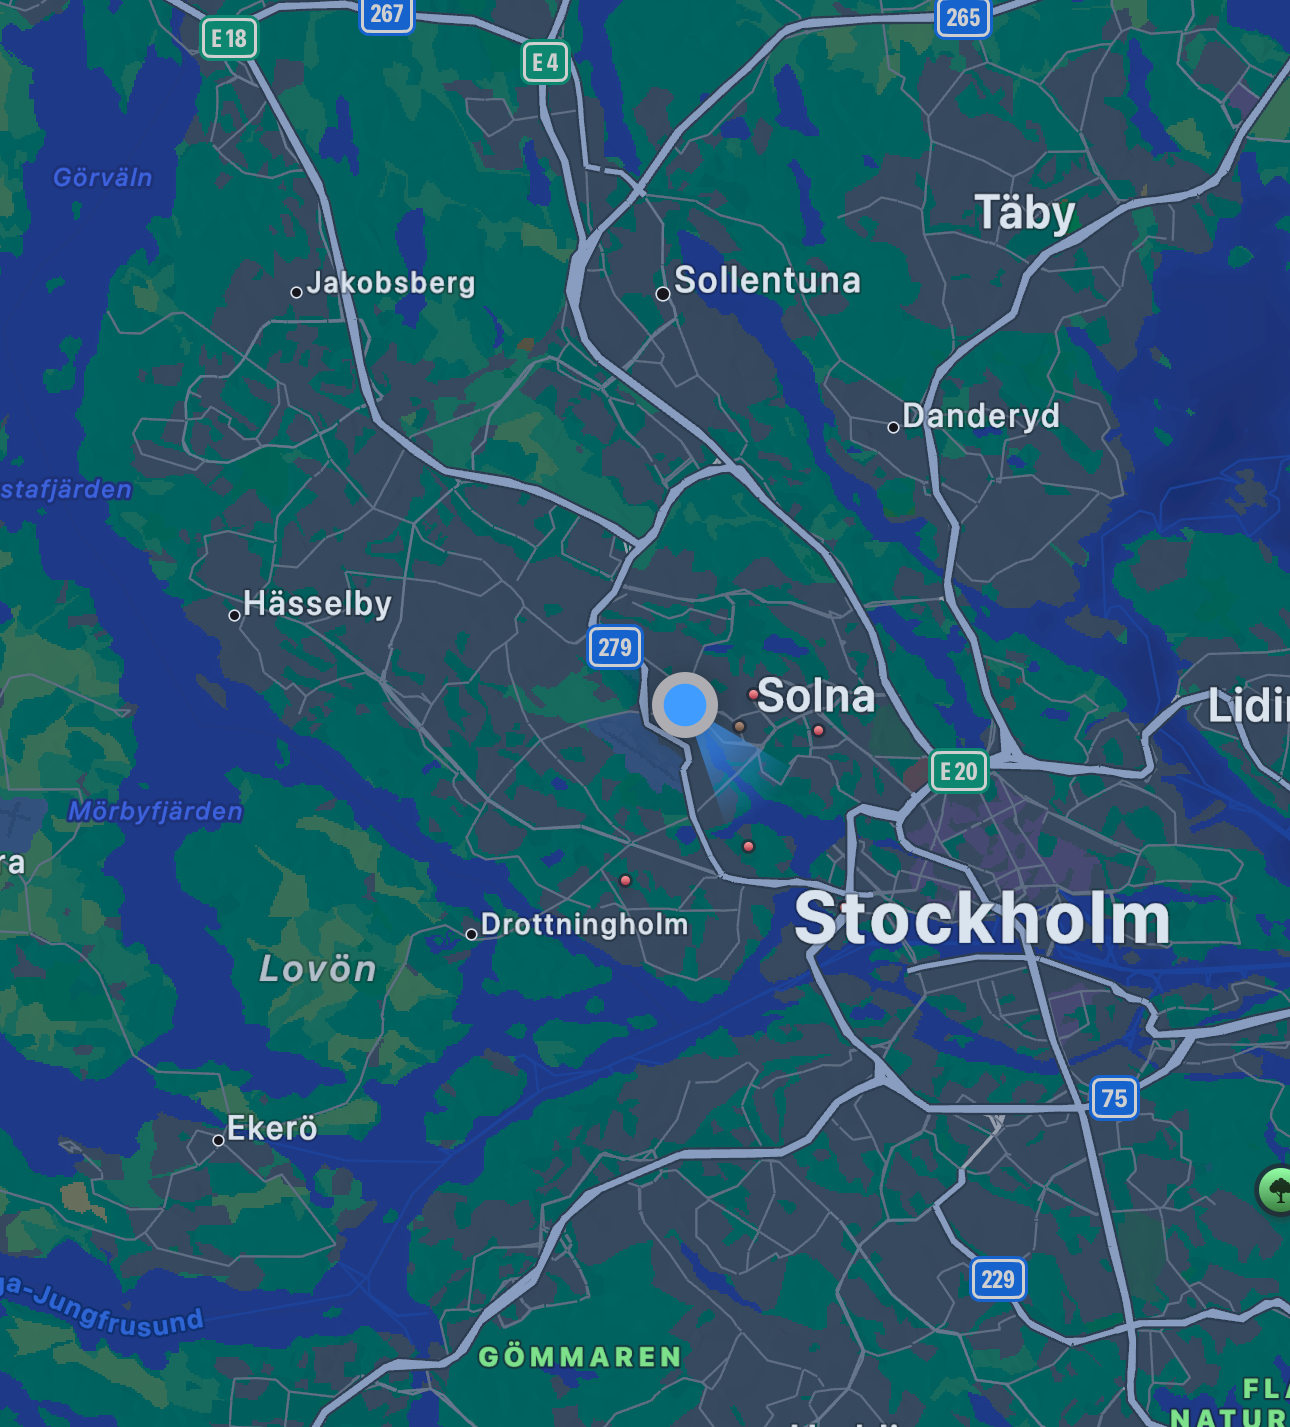
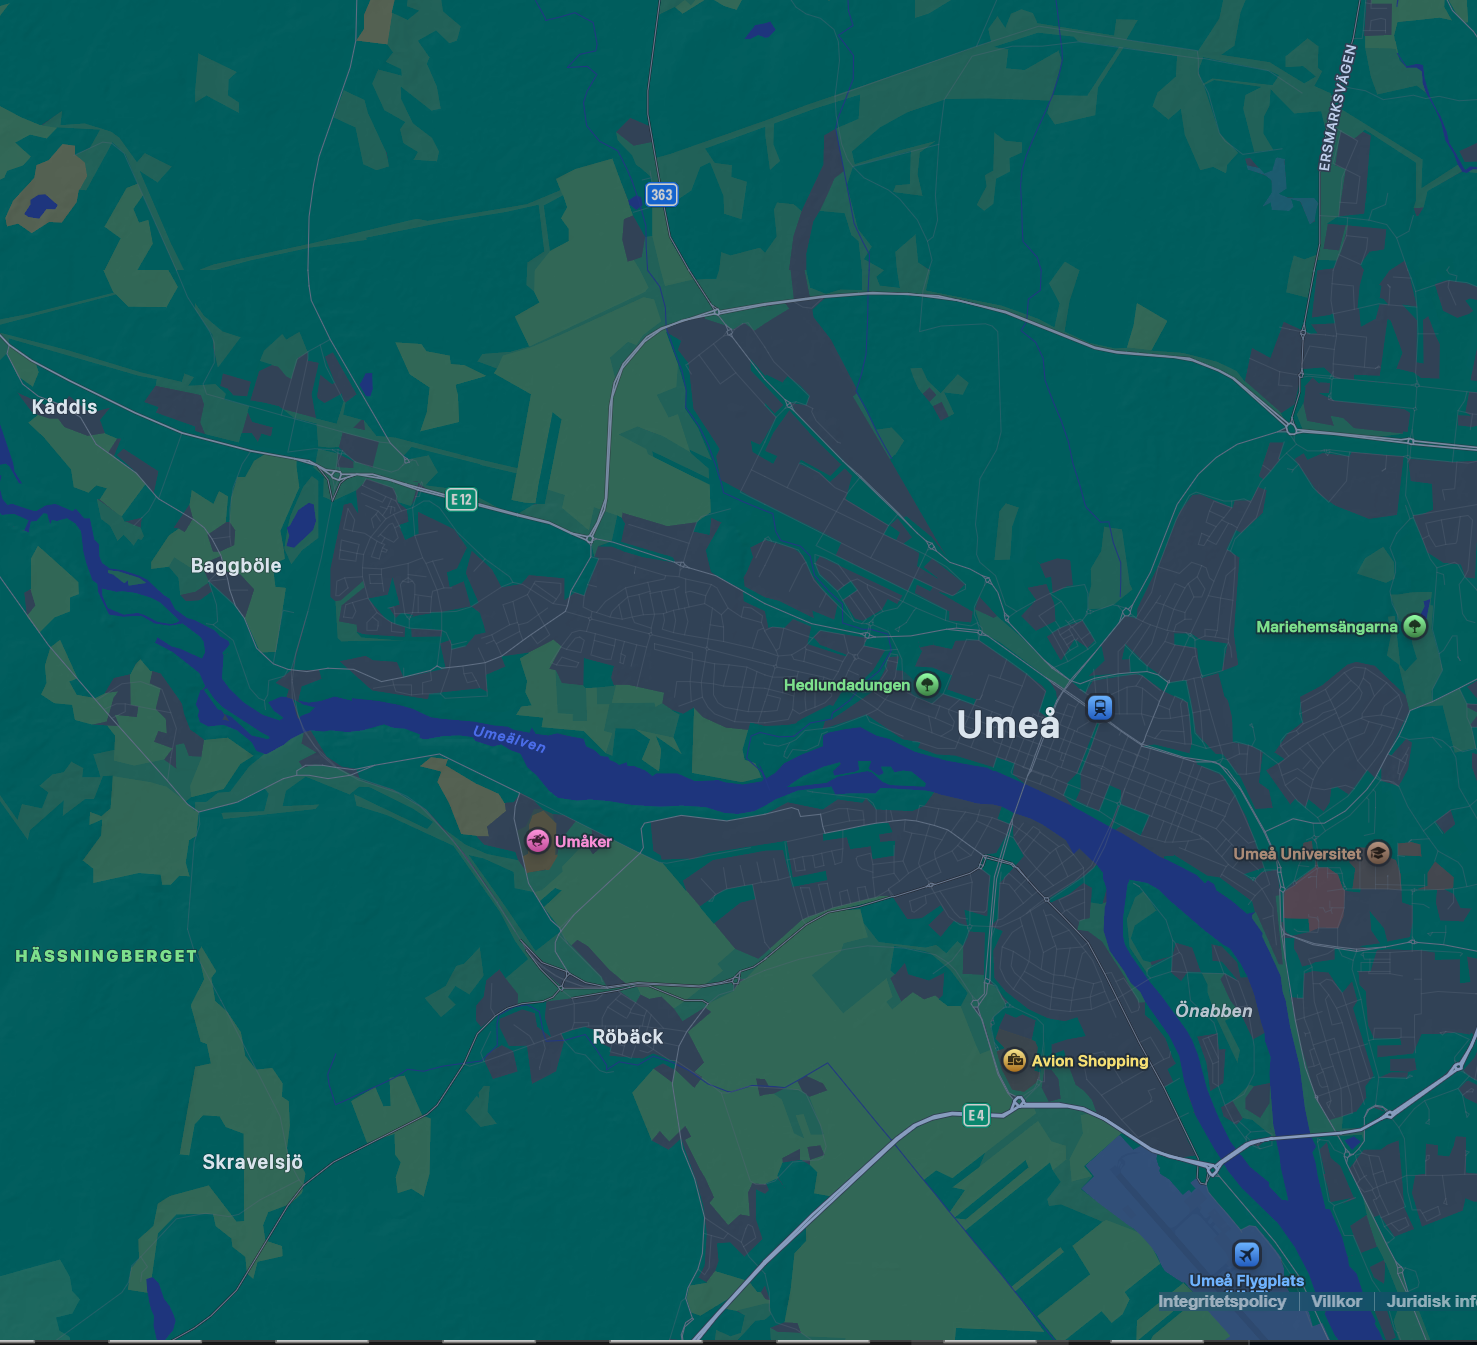
Update map, rm testimonal and fix writing error

diff --git a/src/sections/Testimonials.tsx b/src/sections/Testimonials.tsx
@@ -19,12 +19,12 @@ const testimonials = [
     text: `I had the pleasure of being Isak's Line Manager whilst he worked in my team. Isak was great to have in the team, he was curious, smart, delivered results on time and regularly delivered more than expected.\n\nIsak was working in an international environment and built great relationships with colleagues across multiple countries with strong feedback received from them.\n\nI particularly appreciated Isaks approach which was to get involved in as many topics as he could to learn and develop whilst inspiring others to do the same.`,
     avatar: memojiAvatar2,
   },
-  {
-    name: "Veronica Xanthalopus Moitus",
-    position: "Data Analyst @ Swedbank",
-    text: `Coming soon...`,
-    avatar: memojiAvatar3,
-  },
+  // {
+  //   name: "Veronica Xanthalopus Moitus",
+  //   position: "Data Analyst @ Swedbank",
+  //   text: `Coming soon...`,
+  //   avatar: memojiAvatar3,
+  // },
 ];
 
 export const TestimonialsSection = () => {

diff --git a/src/sections/Projects.tsx b/src/sections/Projects.tsx
@@ -13,9 +13,9 @@ import { Card } from "@/components/Card";
 const portfolioProjects = [
 
   {
-    company: "Native-cloud",
+    company: "Cloud-native",
     year: "Engineering",
-    title: "Native-cloud Engineering",
+    title: "Cloud-native Engineering",
     results: [
       { title: "Docker containers" },
       { title: "SQLMesh transformation" },
